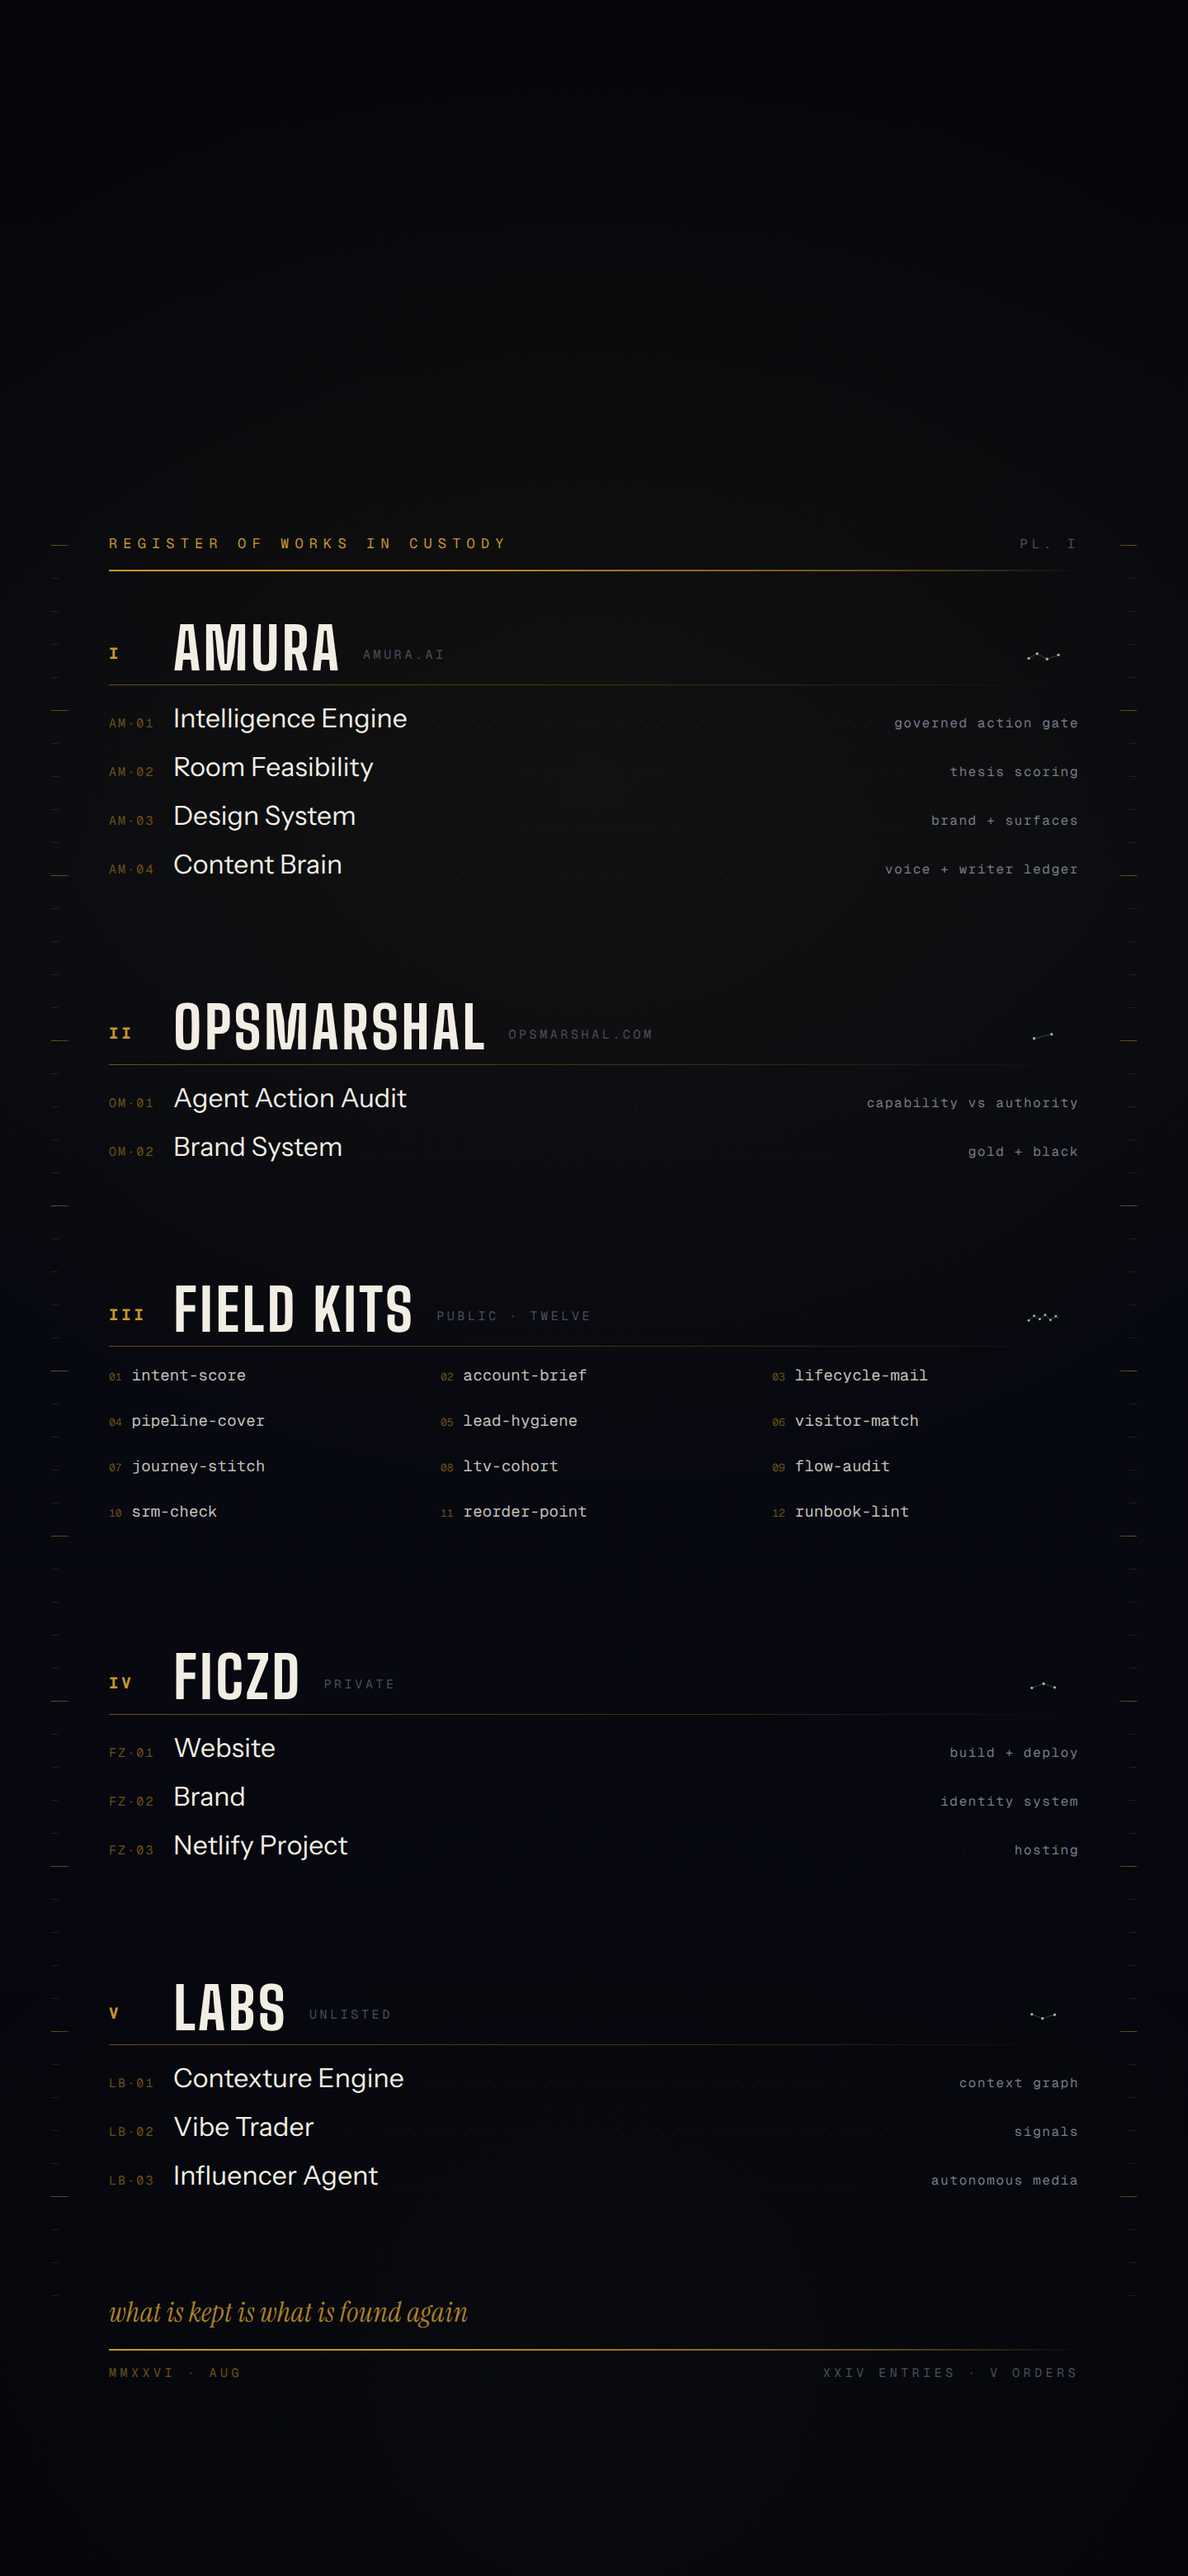
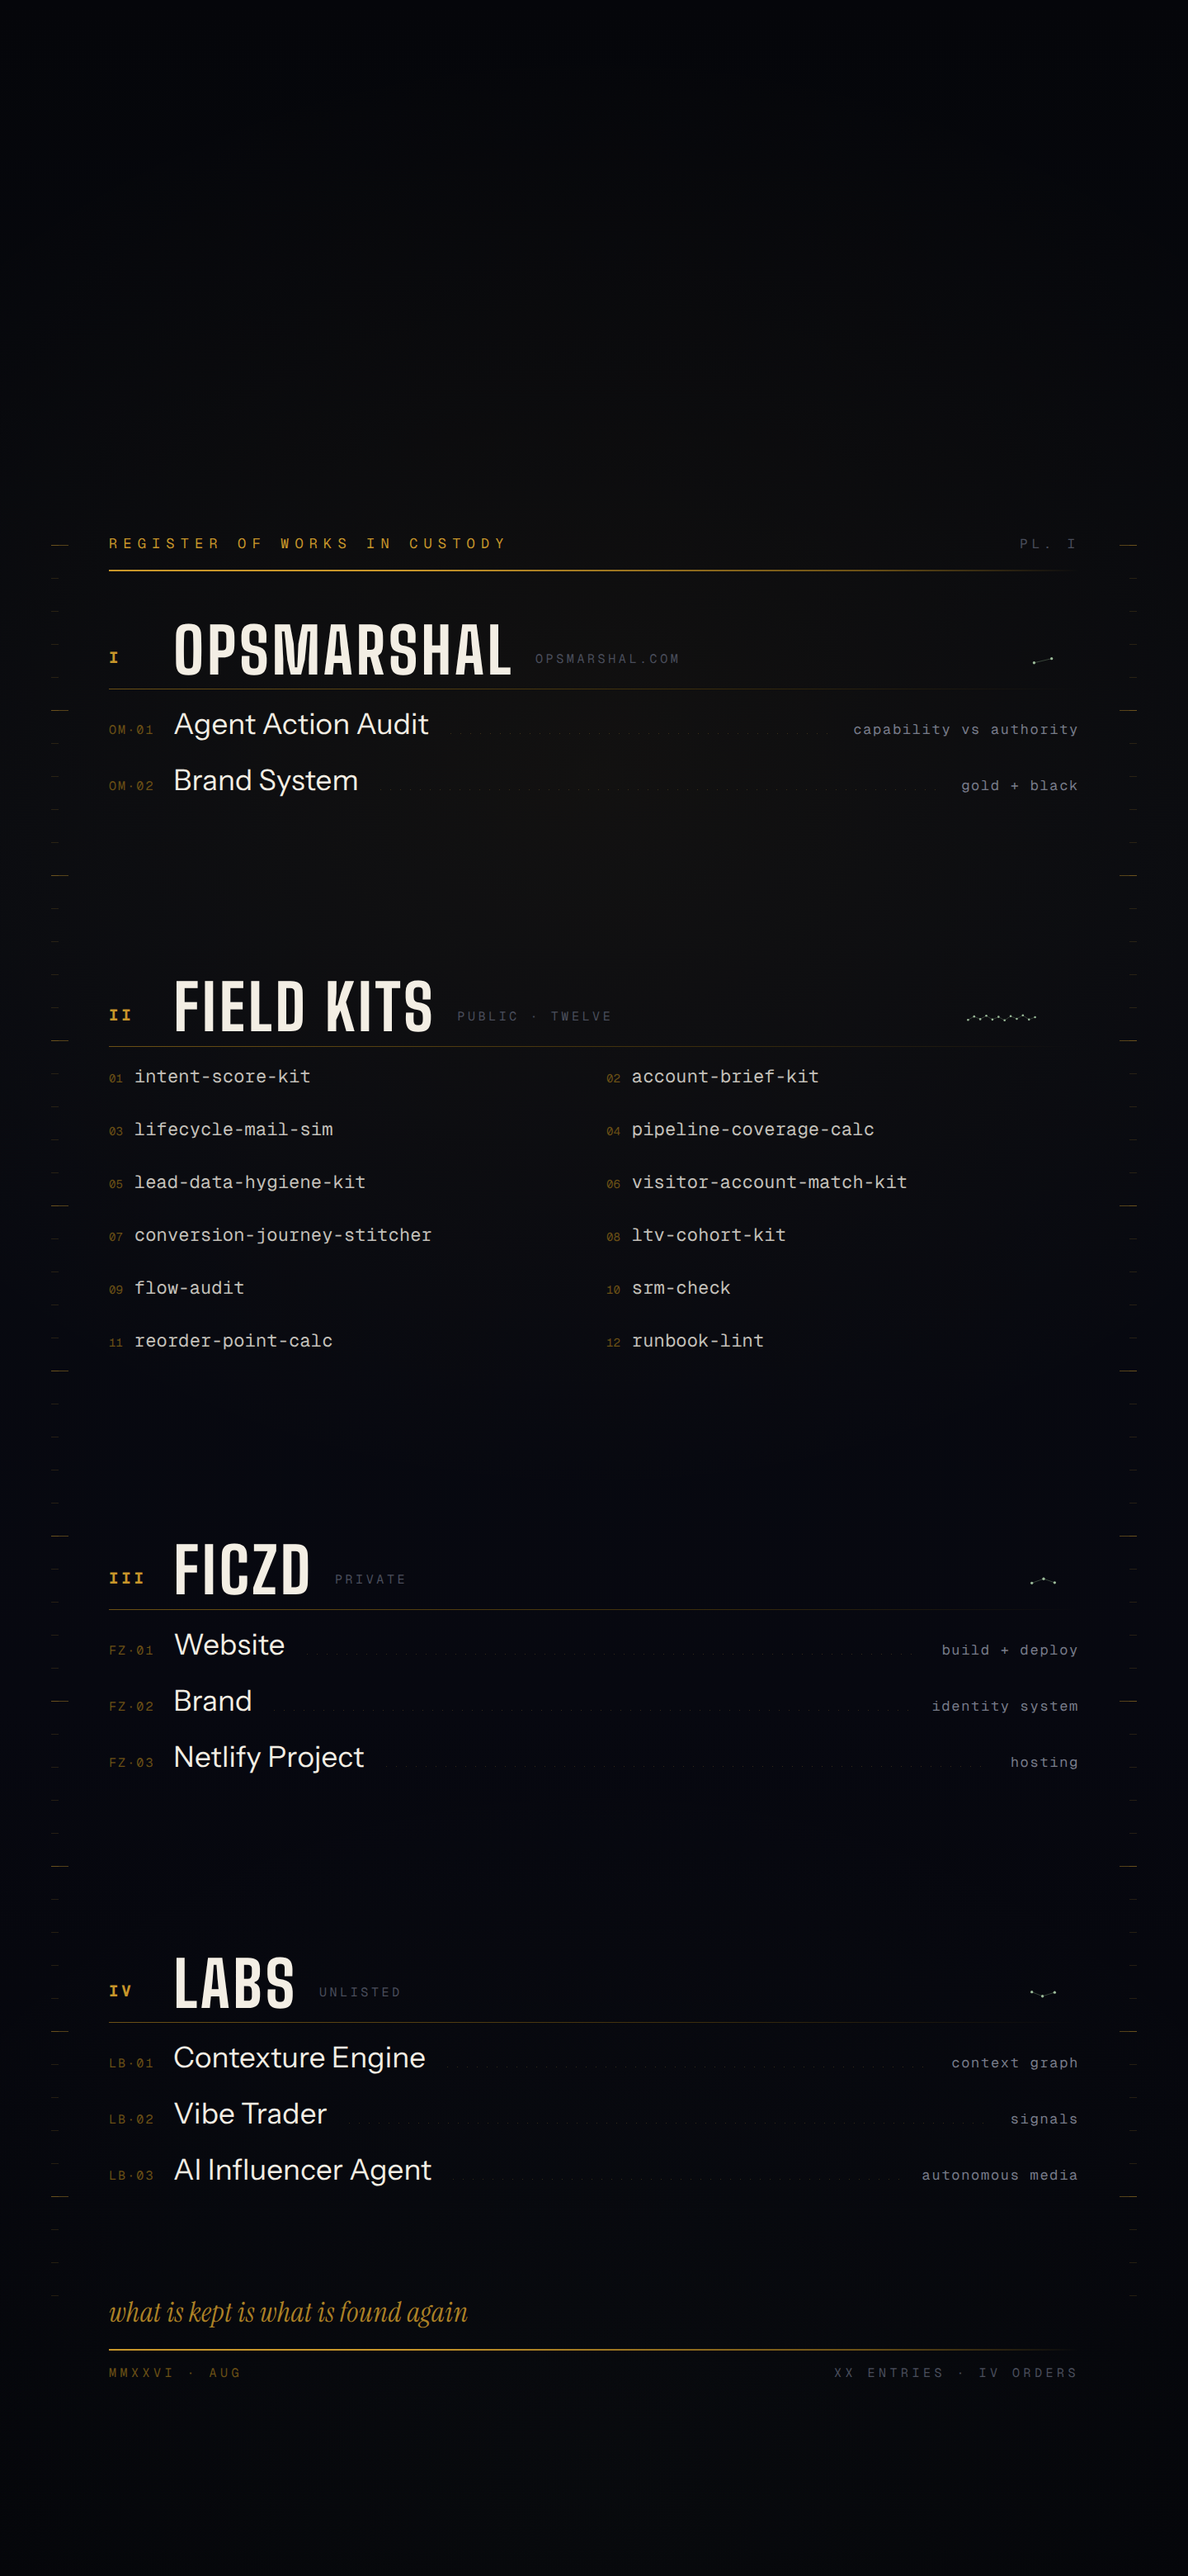
Drop Amura from the register; expand field kits to full repo names
Amura is no longer active work, so its order comes off the plate. The
register is now four orders and twenty entries: Opsmarshal, the twelve
public field kits, Ficzd, and the unlisted labs work.

The space Amura freed goes back into legibility rather than padding —
the kits move from three truncated columns to two at full repository
names (conversion-journey-stitcher, visitor-account-match-kit), and the
names and band heads step up a size throughout. The kits glyph now plots
all twelve entries instead of sampling six.

Claude-Session: https://claude.ai/code/session_01CiNyx69EUmrzHbY3hrujQD

diff --git a/design/wallpaper.html b/design/wallpaper.html
@@ -73,7 +73,7 @@ header{margin-top:648px}
 .bandhead{display:flex;align-items:flex-end;gap:26px;padding-bottom:14px}
 .num{font-family:GM;font-weight:700;font-size:19px;letter-spacing:.20em;
    color:var(--gold);padding-bottom:11px;min-width:52px}
-.bname{font-family:BS;font-weight:700;font-size:70px;line-height:.82;
+.bname{font-family:BS;font-weight:700;font-size:76px;line-height:.82;
    letter-spacing:.045em;color:var(--white);text-transform:uppercase}
 .bmeta{font-family:GM;font-size:15px;letter-spacing:.24em;color:var(--grey-dim);
    padding-bottom:12px;text-transform:uppercase}
@@ -82,22 +82,22 @@ header{margin-top:648px}
 
 /* ledger rows */
 .rows{margin-top:20px}
-.row{display:flex;align-items:baseline;height:59px}
+.row{display:flex;align-items:baseline;height:68px}
 .code{font-family:GM;font-size:15px;letter-spacing:.14em;color:var(--gold-dim);
    width:78px;flex:none}
-.name{font-family:IS;font-size:32px;color:var(--white);letter-spacing:.004em}
+.name{font-family:IS;font-size:35px;color:var(--white);letter-spacing:.004em}
 .lead{flex:1;height:1px;margin:0 26px 9px;
    background:repeating-linear-gradient(to right,
      rgba(200,150,42,.24) 0 1px, transparent 1px 12px);}
-.desc{font-family:GM;font-size:16px;letter-spacing:.10em;color:var(--grey);
+.desc{font-family:GM;font-size:17px;letter-spacing:.10em;color:var(--grey);
    text-transform:lowercase}
 
 /* kit grid — names carry their own meaning, no descriptors */
-.grid{margin-top:22px;display:grid;grid-template-columns:repeat(3,1fr);
+.grid{margin-top:22px;display:grid;grid-template-columns:repeat(2,1fr);
    column-gap:30px;row-gap:0}
-.cell{display:flex;align-items:baseline;gap:12px;height:55px}
-.cell .k{font-family:GM;font-size:13px;color:var(--gold-dim);flex:none}
-.cell .n{font-family:GM;font-size:19px;color:#C3C0BA;letter-spacing:.008em}
+.cell{display:flex;align-items:baseline;gap:14px;height:64px}
+.cell .k{font-family:GM;font-size:14px;color:var(--gold-dim);flex:none}
+.cell .n{font-family:GM;font-size:22px;color:#C3C0BA;letter-spacing:.008em}
 
 /* ═══ FOOTER ═══ */
 footer{margin-bottom:236px}
@@ -126,32 +126,10 @@ footer{margin-bottom:236px}
 
   <main>
 
-  <!-- I — AMURA -->
+  <!-- I — OPSMARSHAL -->
   <section class="band">
     <div class="bandhead">
       <div class="num">I</div>
-      <div class="bname">Amura</div>
-      <div class="bmeta">amura.ai</div>
-      <div class="spacer"></div>
-      <svg class="const" width="86" height="26" viewBox="0 0 86 26" fill="none">
-        <path d="M4 18 L26 6 L52 20 L82 9" stroke="#809E7E" stroke-width="1.2" opacity=".7"/>
-        <circle cx="4" cy="18" r="3.6" fill="#9BBA99"/><circle cx="26" cy="6" r="3.6" fill="#9BBA99"/>
-        <circle cx="52" cy="20" r="3.6" fill="#9BBA99"/><circle cx="82" cy="9" r="3.6" fill="#9BBA99"/>
-      </svg>
-    </div>
-    <div class="rule-fine"></div>
-    <div class="rows">
-      <div class="row"><div class="code">AM·01</div><div class="name">Intelligence Engine</div><div class="lead"></div><div class="desc">governed action gate</div></div>
-      <div class="row"><div class="code">AM·02</div><div class="name">Room Feasibility</div><div class="lead"></div><div class="desc">thesis scoring</div></div>
-      <div class="row"><div class="code">AM·03</div><div class="name">Design System</div><div class="lead"></div><div class="desc">brand + surfaces</div></div>
-      <div class="row"><div class="code">AM·04</div><div class="name">Content Brain</div><div class="lead"></div><div class="desc">voice + writer ledger</div></div>
-    </div>
-  </section>
-
-  <!-- II — OPSMARSHAL -->
-  <section class="band">
-    <div class="bandhead">
-      <div class="num">II</div>
       <div class="bname">Opsmarshal</div>
       <div class="bmeta">opsmarshal.com</div>
       <div class="spacer"></div>
@@ -167,41 +145,50 @@ footer{margin-bottom:236px}
     </div>
   </section>
 
-  <!-- III — FIELD KITS -->
+  <!-- II — FIELD KITS -->
   <section class="band">
     <div class="bandhead">
-      <div class="num">III</div>
+      <div class="num">II</div>
       <div class="bname">Field Kits</div>
       <div class="bmeta">public · twelve</div>
       <div class="spacer"></div>
-      <svg class="const" width="86" height="26" viewBox="0 0 86 26" fill="none">
-        <path d="M4 20 L18 8 L33 17 L47 6 L61 19 L75 9 L82 15" stroke="#809E7E" stroke-width="1.2" opacity=".7"/>
-        <circle cx="4" cy="20" r="3.2" fill="#9BBA99"/><circle cx="18" cy="8" r="3.2" fill="#9BBA99"/>
-        <circle cx="33" cy="17" r="3.2" fill="#9BBA99"/><circle cx="47" cy="6" r="3.2" fill="#9BBA99"/>
-        <circle cx="61" cy="19" r="3.2" fill="#9BBA99"/><circle cx="75" cy="9" r="3.2" fill="#9BBA99"/>
+      <svg class="const" width="188" height="26" viewBox="0 0 188 26" fill="none">
+        <path d="M6 18 L22 9 L38 16 L54 7 L70 17 L86 10 L102 19 L118 8 L134 15 L150 6 L166 17 L182 11" stroke="#809E7E" stroke-width="1.2" opacity=".62"/>
+        <circle cx="6" cy="18" r="2.8" fill="#9BBA99"/>
+        <circle cx="22" cy="9" r="2.8" fill="#9BBA99"/>
+        <circle cx="38" cy="16" r="2.8" fill="#9BBA99"/>
+        <circle cx="54" cy="7" r="2.8" fill="#9BBA99"/>
+        <circle cx="70" cy="17" r="2.8" fill="#9BBA99"/>
+        <circle cx="86" cy="10" r="2.8" fill="#9BBA99"/>
+        <circle cx="102" cy="19" r="2.8" fill="#9BBA99"/>
+        <circle cx="118" cy="8" r="2.8" fill="#9BBA99"/>
+        <circle cx="134" cy="15" r="2.8" fill="#9BBA99"/>
+        <circle cx="150" cy="6" r="2.8" fill="#9BBA99"/>
+        <circle cx="166" cy="17" r="2.8" fill="#9BBA99"/>
+        <circle cx="182" cy="11" r="2.8" fill="#9BBA99"/>
       </svg>
     </div>
     <div class="rule-fine"></div>
     <div class="grid">
-      <div class="cell"><span class="k">01</span><span class="n">intent-score</span></div>
-      <div class="cell"><span class="k">02</span><span class="n">account-brief</span></div>
-      <div class="cell"><span class="k">03</span><span class="n">lifecycle-mail</span></div>
-      <div class="cell"><span class="k">04</span><span class="n">pipeline-cover</span></div>
-      <div class="cell"><span class="k">05</span><span class="n">lead-hygiene</span></div>
-      <div class="cell"><span class="k">06</span><span class="n">visitor-match</span></div>
-      <div class="cell"><span class="k">07</span><span class="n">journey-stitch</span></div>
-      <div class="cell"><span class="k">08</span><span class="n">ltv-cohort</span></div>
+      <div class="cell"><span class="k">01</span><span class="n">intent-score-kit</span></div>
+      <div class="cell"><span class="k">02</span><span class="n">account-brief-kit</span></div>
+      <div class="cell"><span class="k">03</span><span class="n">lifecycle-mail-sim</span></div>
+      <div class="cell"><span class="k">04</span><span class="n">pipeline-coverage-calc</span></div>
+      <div class="cell"><span class="k">05</span><span class="n">lead-data-hygiene-kit</span></div>
+      <div class="cell"><span class="k">06</span><span class="n">visitor-account-match-kit</span></div>
+      <div class="cell"><span class="k">07</span><span class="n">conversion-journey-stitcher</span></div>
+      <div class="cell"><span class="k">08</span><span class="n">ltv-cohort-kit</span></div>
       <div class="cell"><span class="k">09</span><span class="n">flow-audit</span></div>
       <div class="cell"><span class="k">10</span><span class="n">srm-check</span></div>
-      <div class="cell"><span class="k">11</span><span class="n">reorder-point</span></div>
+      <div class="cell"><span class="k">11</span><span class="n">reorder-point-calc</span></div>
       <div class="cell"><span class="k">12</span><span class="n">runbook-lint</span></div>
     </div>
   </section>
 
-  <!-- IV — FICZD -->
+  <!-- III — FICZD -->
   <section class="band">
     <div class="bandhead">
-      <div class="num">IV</div>
+      <div class="num">III</div>
       <div class="bname">Ficzd</div>
       <div class="bmeta">private</div>
       <div class="spacer"></div>
@@ -219,10 +206,10 @@ footer{margin-bottom:236px}
     </div>
   </section>
 
-  <!-- V — LABS -->
+  <!-- IV — LABS -->
   <section class="band">
     <div class="bandhead">
-      <div class="num">V</div>
+      <div class="num">IV</div>
       <div class="bname">Labs</div>
       <div class="bmeta">unlisted</div>
       <div class="spacer"></div>
@@ -236,7 +223,7 @@ footer{margin-bottom:236px}
     <div class="rows">
       <div class="row"><div class="code">LB·01</div><div class="name">Contexture Engine</div><div class="lead"></div><div class="desc">context graph</div></div>
       <div class="row"><div class="code">LB·02</div><div class="name">Vibe Trader</div><div class="lead"></div><div class="desc">signals</div></div>
-      <div class="row"><div class="code">LB·03</div><div class="name">Influencer Agent</div><div class="lead"></div><div class="desc">autonomous media</div></div>
+      <div class="row"><div class="code">LB·03</div><div class="name">AI Influencer Agent</div><div class="lead"></div><div class="desc">autonomous media</div></div>
     </div>
   </section>
 
@@ -247,7 +234,7 @@ footer{margin-bottom:236px}
     <div class="rule-heavy"></div>
     <div class="ftr">
       <span class="gold">MMXXVI · AUG</span>
-      <span>XXIV entries · V orders</span>
+      <span>XX entries · IV orders</span>
     </div>
   </footer>
 

diff --git a/design/README.md b/design/README.md
@@ -34,7 +34,7 @@ Any Chromium works — point it at your own binary if that path doesn't exist.
 Bands live in `wallpaper.html` as `<section class="band">`. Rows are
 `code · name · leader · descriptor`. The layout distributes bands evenly
 down the field on its own, so adding or removing entries re-balances
-without touching the CSS — but update the footer count (`XXIV entries`)
+without touching the CSS — but update the footer count (`XX entries`)
 and the plotted-point glyph in each band head, whose dot count mirrors
 the number of entries in that band.
 
